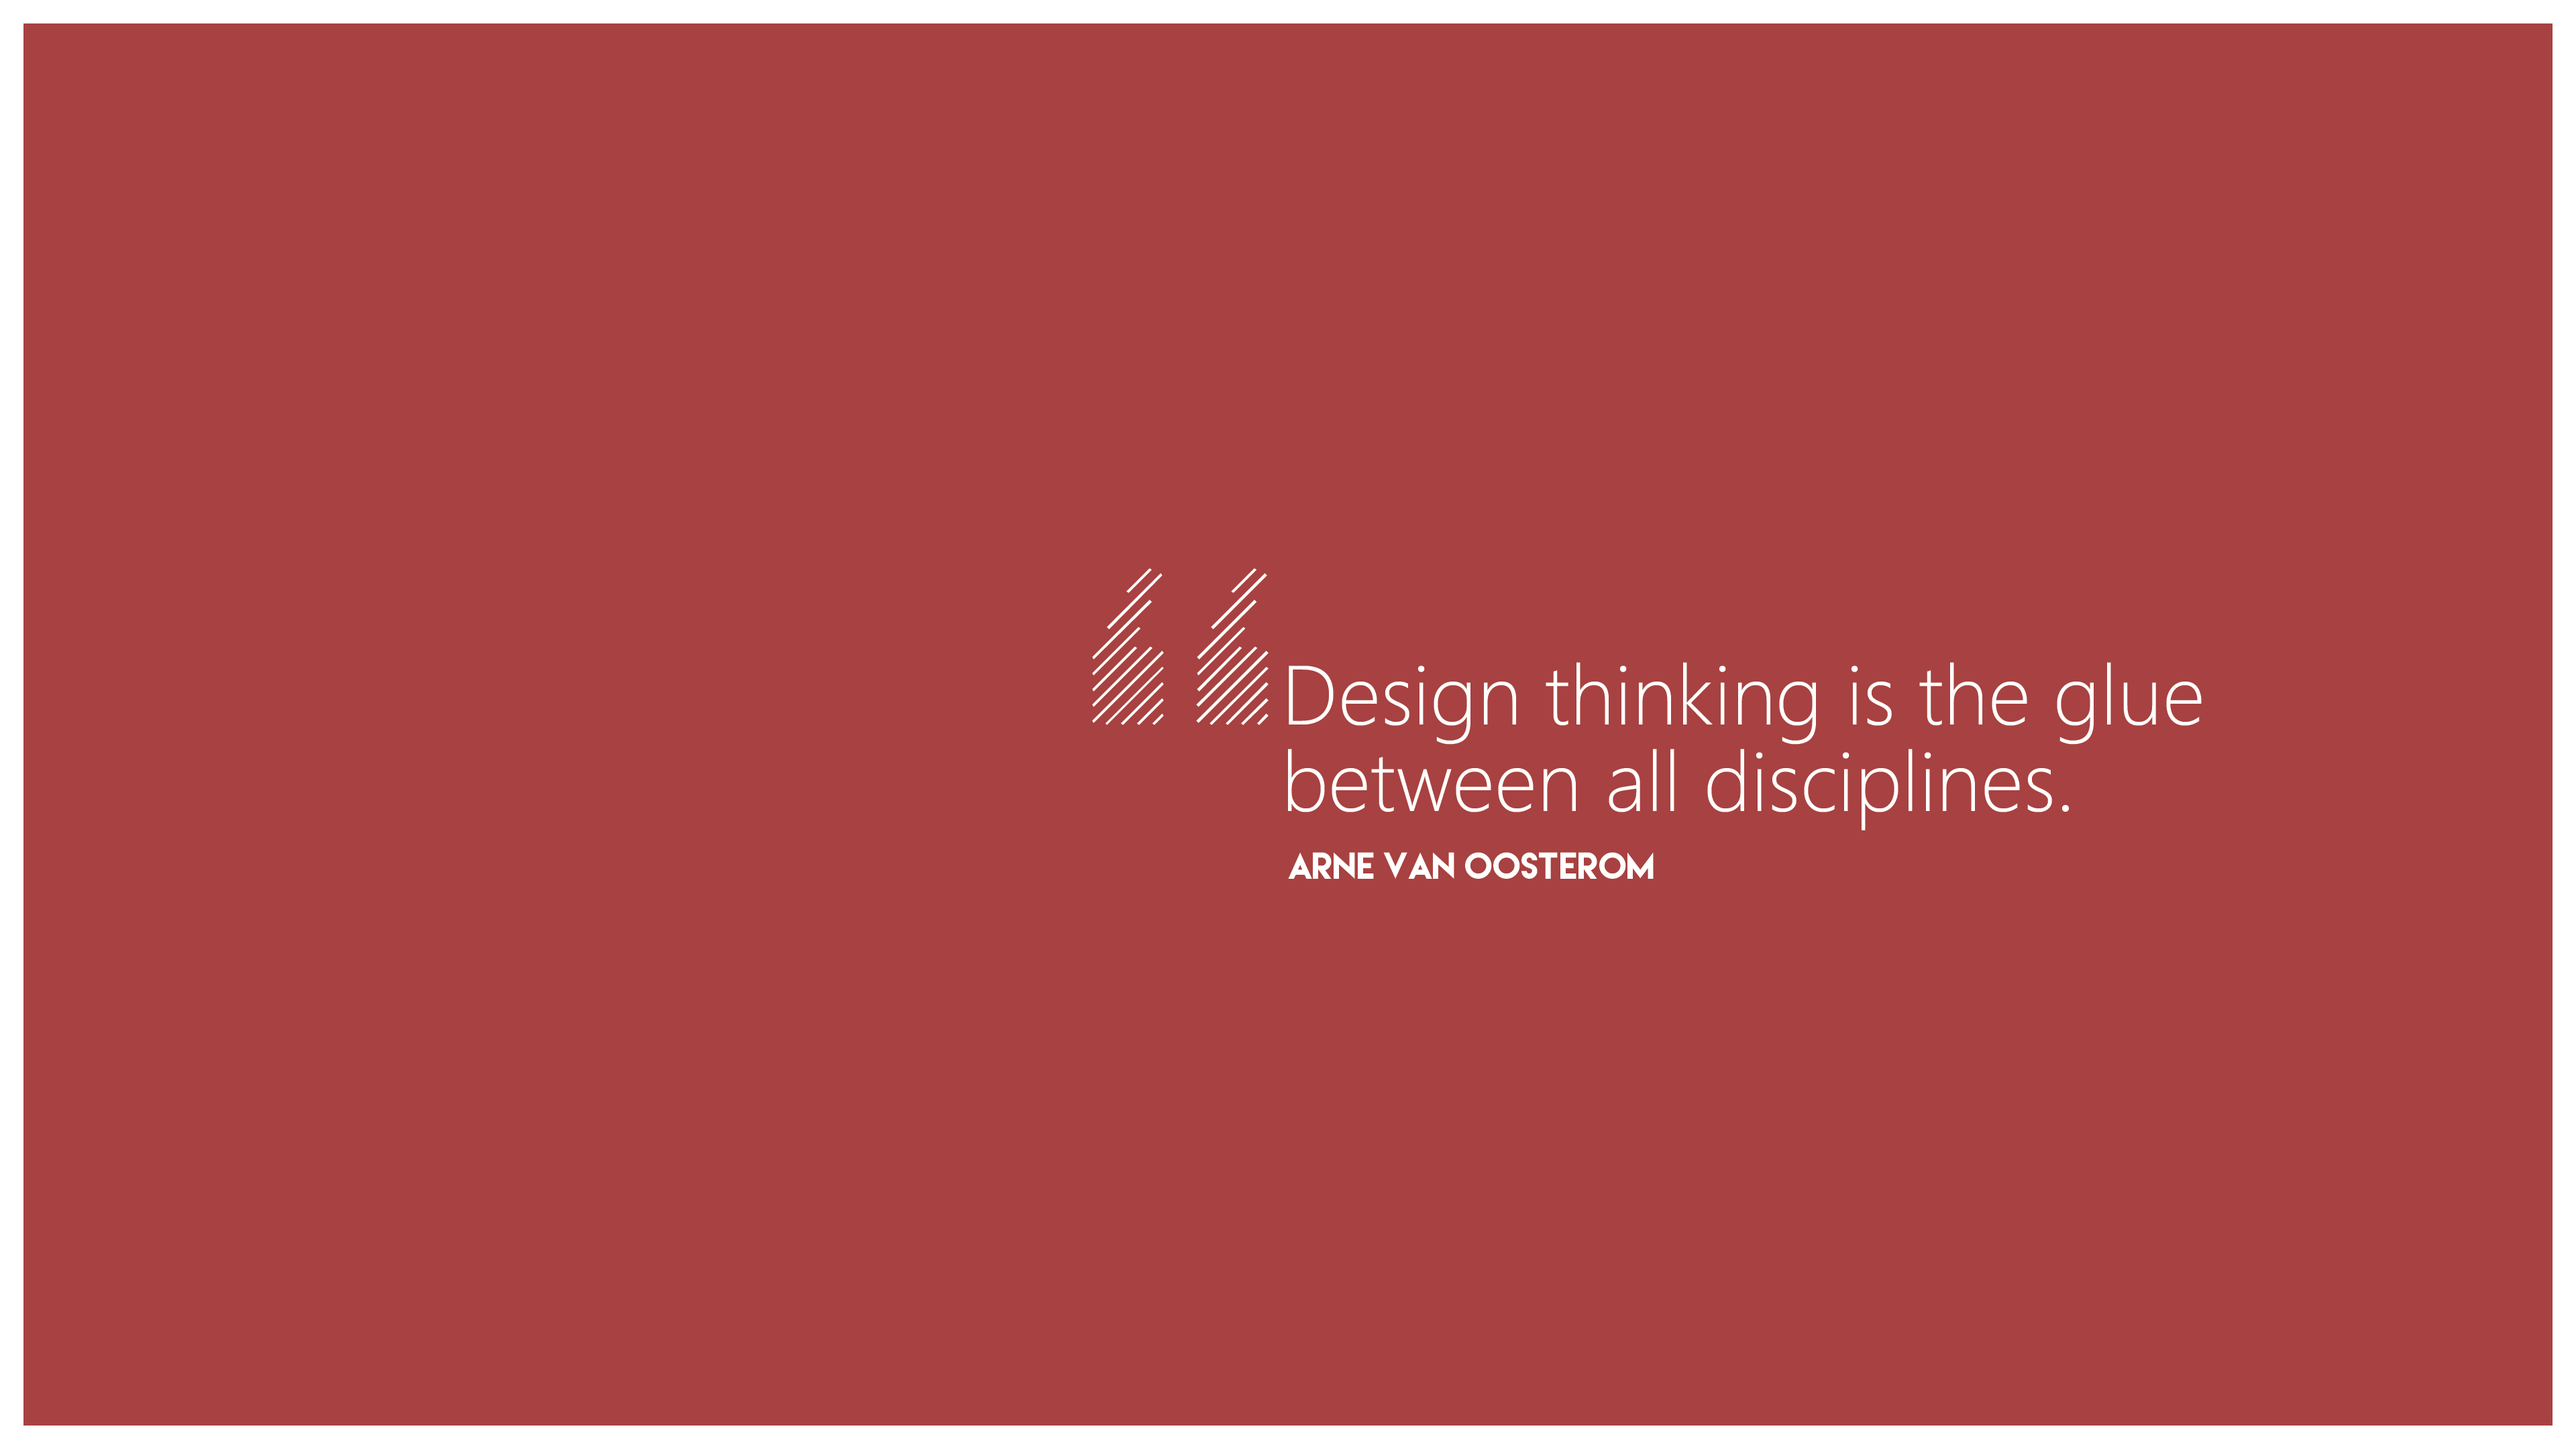
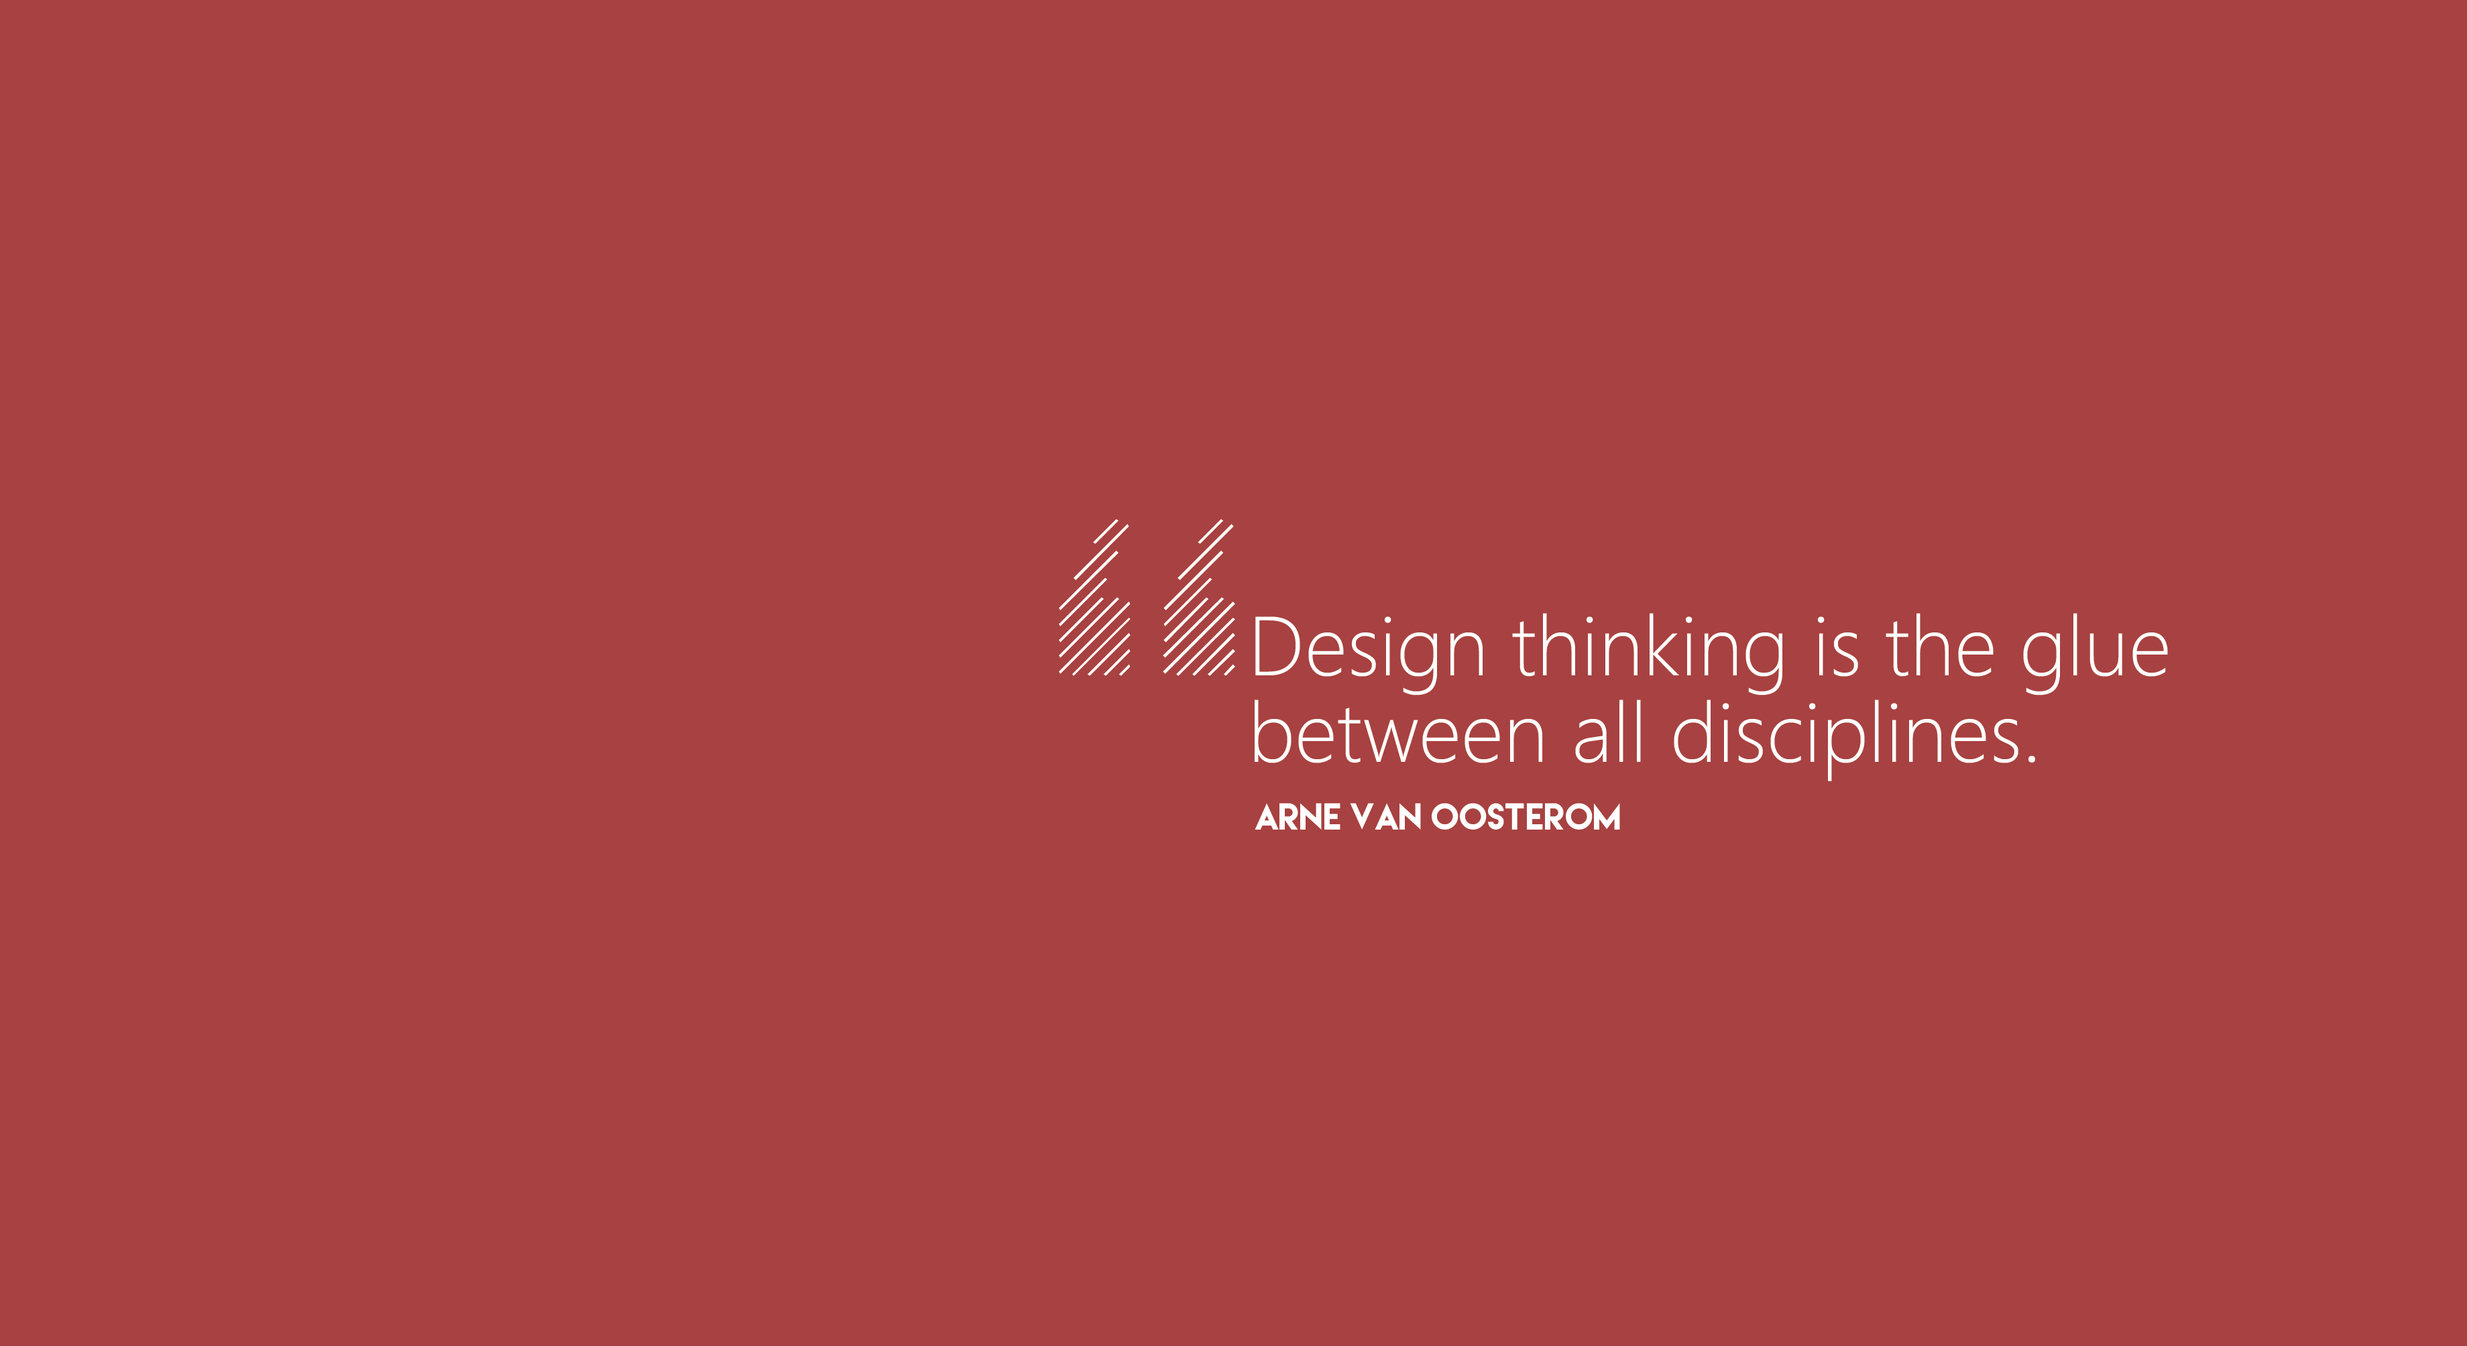
Updated the image in webpage

Changed region(s): [[0.0, 0.0, 1.0, 1.0], [0.4028, 0.4016, 0.8676, 0.6178]]

diff --git a/main.css b/main.css
@@ -14,7 +14,7 @@ header h1{
 
 .image_top{
 	width:1280px;
-	height: 400px;
+	height: 500px;
 }
 .top_nav ul li{
 	float: left;
